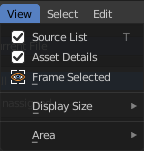
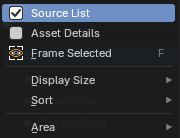
Asset Browser: View menu Sort, new Library menu section (#1360)

diff --git a/docs2/content/editors/asset-browser/index.md b/docs2/content/editors/asset-browser/index.md
@@ -82,15 +82,15 @@ There are several tools in the header to find. Menus, and a few options.
 
 ![Header - View menu](/docs2/images/editors/asset-browser/header-view-menu.png)
 
-The view menu contains view related functionality.
-
+The View menu holds the view settings. It also has everything from the right-click menu that changes the view, so you don't need to hunt for it.
 
 | Entry | What it does |
-| -------------- | -------------------------------------------------------------------------------------------- |
-| Source List | Shows or hides the tool shelf at the left side. |
-| File Path | Please ignore. This entry is a bug. The asset browser shares the code with the file browser. |
-| Frame Selected | Scrolls the selection into view. |
-
+| -------------- | ------------------------------------------------------------ |
+| Source List | Show or hide the list of libraries and catalogs on the left. |
+| Asset Details | Show or hide the sidebar with the details of the selected asset. |
+| Frame Selected | Scroll the selected asset into view. |
+| Display Size | How big the asset thumbnails are. |
+| Sort | Sort the assets, for example by name or by catalog. Before, this was only in the right-click menu. |
 
 ### Display Size
 
@@ -133,6 +133,20 @@ Allows you to box select files. Note that this is an old obsolete operator. You 
 | All | Select all. |
 
 
+## Header - Library menu
+
+![Header - Library menu](/docs2/images/editors/asset-browser/header-library-menu.png)
+
+Everything about the asset libraries themselves.
+
+| Entry | What it does |
+| -------------------------- | ------------------------------------------------------------------------------------------------- |
+| Asset Library Paths | Open the Preferences where you add and manage your asset library folders. |
+| Refresh Asset Library | Reload the current library, for example after you saved new assets into it from another file. |
+| Refresh Remote Listing | Fetch the latest list of assets from an online library. |
+| Open Remote Assets Cache | Open the folder where downloaded online assets are kept. |
+| Clear Remote Assets Cache | Delete the downloaded online assets to free up disk space. They download again when you use them. |
+
 ## Header - Catalog menu
 
 ![Header - Catalog menu](/docs2/images/editors/asset-browser/header-catalog-menu.png)
@@ -142,13 +156,6 @@ Allows you to box select files. Note that this is an old obsolete operator. You 
 | ----- | -------------------------------- |
 | Undo | Undo of the last edit operation. |
 | Redo | Redo of the last edit operation. |
-
-
-### Asset Library Paths
-
-![Asset Library Paths](/docs2/images/editors/asset-browser/asset-library-paths.png)
-
-Opens the file browser at the Paths tab. Here you can show, edit, and add paths to new asset libraries.
 
 
 | Entry | What it does |
